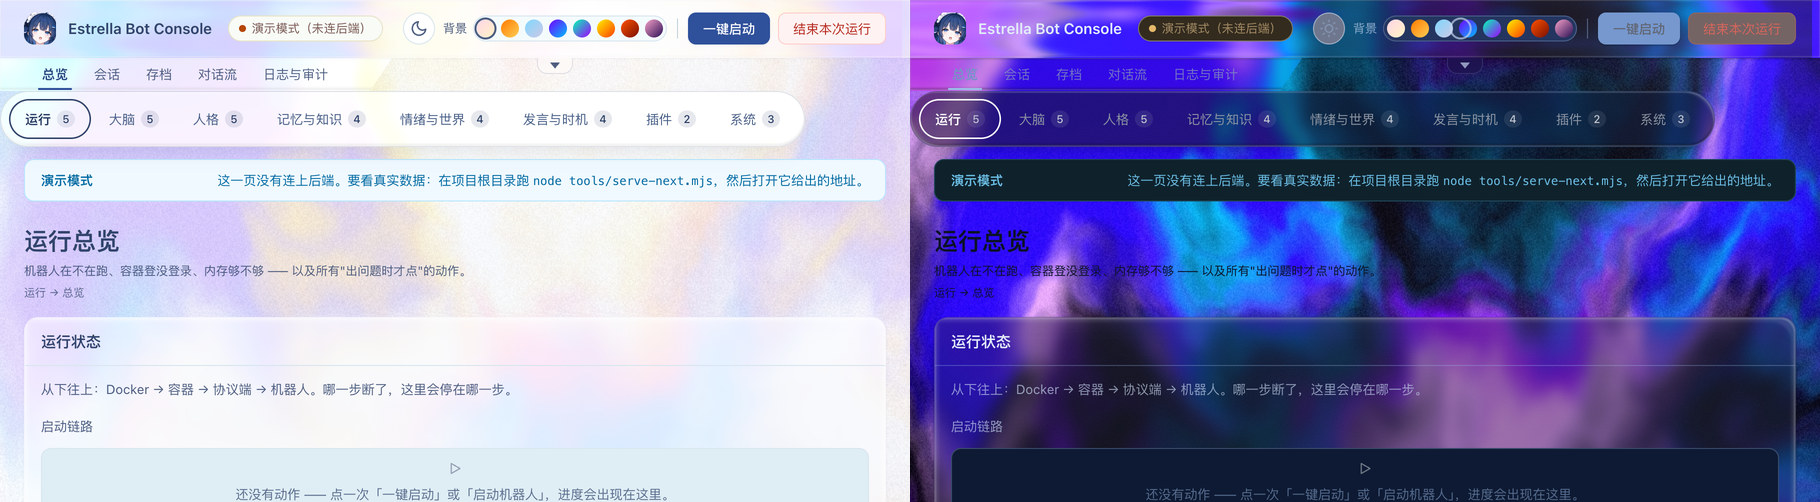
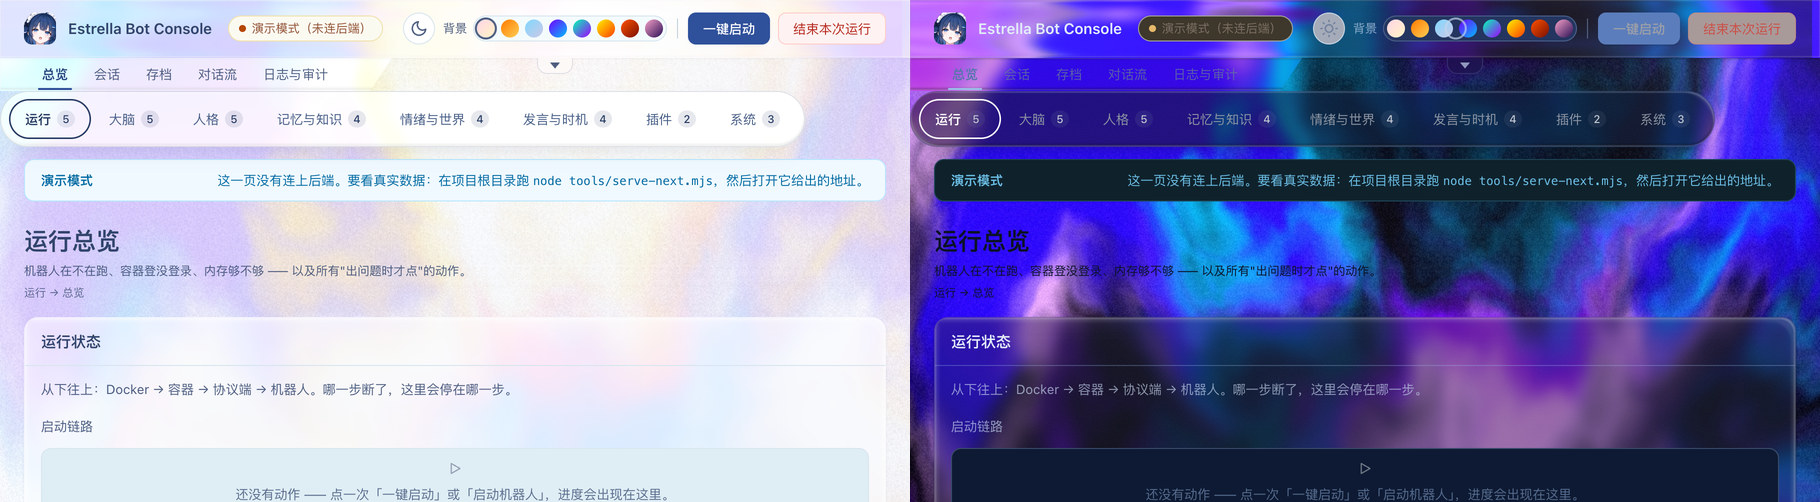
fix(panel): console badge corner radius one notch sharper (10px -> 8px)

Changed region(s): [[0.8615, 0.0, 1.0, 0.0896], [0.6154, 0.0299, 0.7385, 0.0896], [0.8, 0.0299, 0.8308, 0.0598]]

diff --git a/panel/next/style.css b/panel/next/style.css
@@ -620,7 +620,7 @@ a:hover { text-decoration: underline; }
 .tb-brand { display: flex; align-items: center; gap: var(--s3); min-width: 0; flex: none; }
 .logo {
   flex: none; width: 32px; height: 32px;
-  border-radius: var(--r2);
+  border-radius: var(--r1);
[1 lines of base64/hex data omitted]
   background-repeat: no-repeat;
   background-position: center;
@@ -631,7 +631,8 @@ a:hover { text-decoration: underline; }
         立绘四角是透明的，于是一圈**直角阴影**从透明处露出来，看起来就是「一个带阴影的方片」。
         教训与内高光那条是同一条：**透明图不许带任何按盒子画的装饰**（内高光、外投影、边框）。
         四角不圆是同一个原因的另一半 —— 阴影的角是直的，裁出来的图才有圆角。
-     圆角取 `--r2`（10px / 32px ≈ 31%）：比原来的 `--r1` 稍圆一点，与 macOS 图标容器的比例接近。
+     圆角取 `--r1`（8px / 32px = 25%）。⚠ 2026-10-11 第二次调：先试过 `--r2`（10px / 31%），
+        用户裁图为证「圆润过头了」⇒ **收回一档**。32px 的方寸里，10% 的半径差已经肉眼可辨。
      ⚠ 图**内联**在 CSS 里（data: URI），不落 `panel/next/` —— 那张资产表（`NEXT_ASSETS`）
         的形状正则只收 `.html/.css/.js`，且它是"按名字取文件"的安全闸，不该为一张图放宽。
         CSP 侧由入口页的 `img-src 'self' data:` 放行（与本文件颗粒噪点同一条）。
